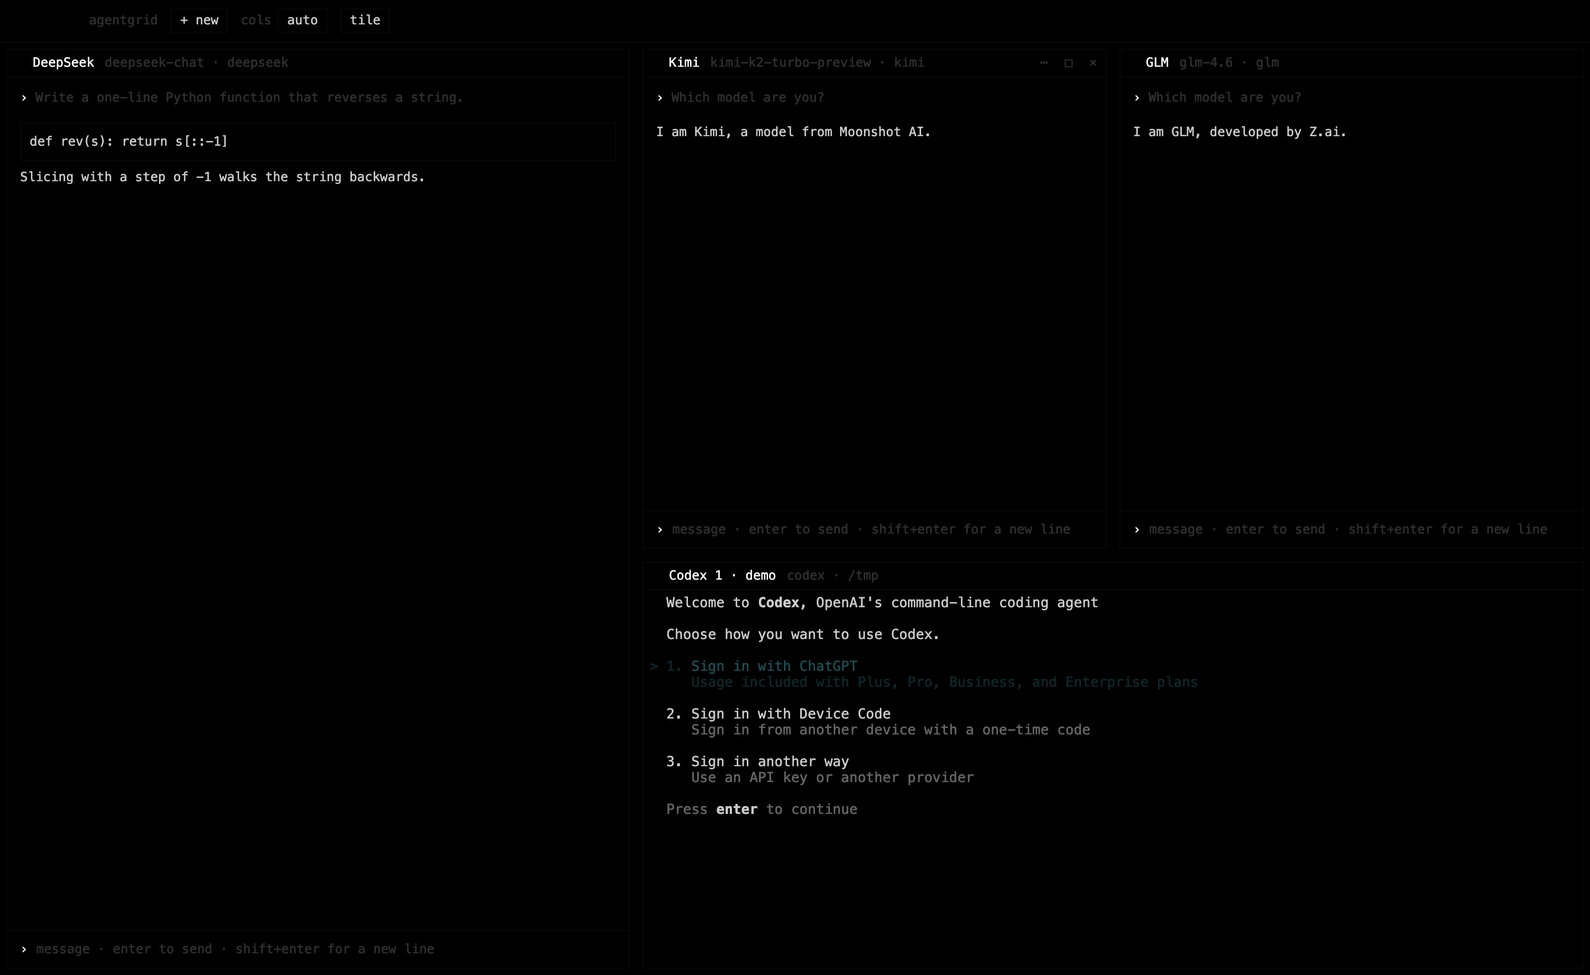
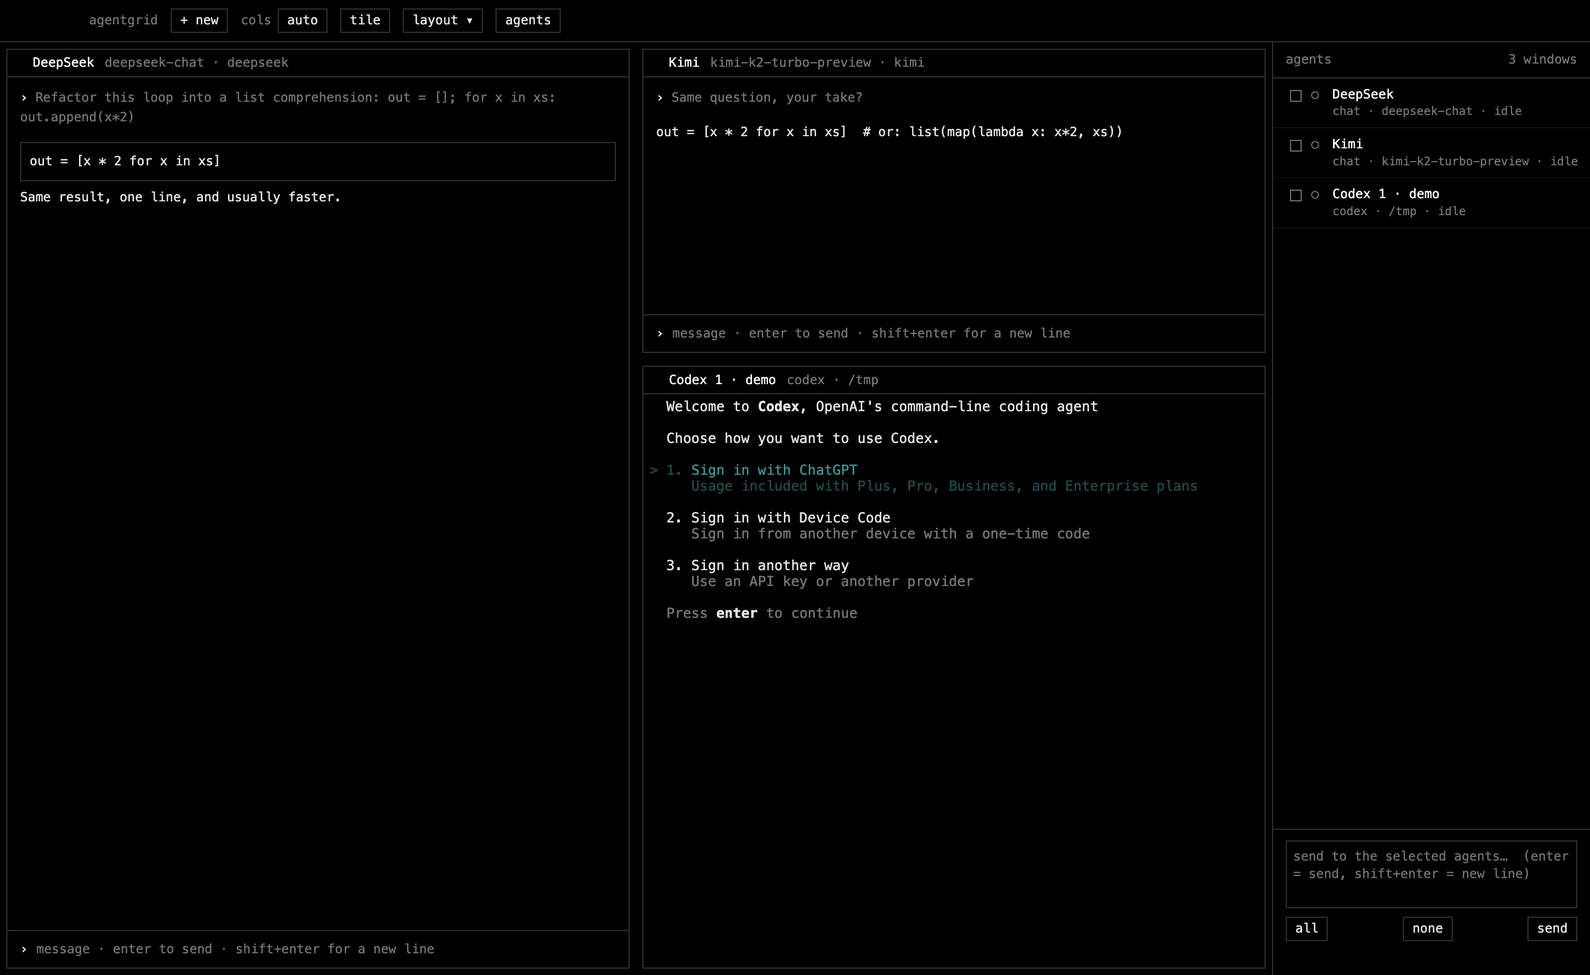
Terminal windows, layout presets, half-screen snap, agents overview and broadcast
- Plain shell windows next to the agents
- Layout menu: columns, rows, main window 50/66 % with the rest stacked
- Drag to the edge to snap a window to a half; others re-tile in the rest
- Agents dock: all windows with type, model and activity; send one prompt to
  the selected terminals/chats, forward a chat's last answer to the others

diff --git a/src/renderer/renderer.js b/src/renderer/renderer.js
@@ -7,7 +7,7 @@
   const uid = () => Math.random().toString(36).slice(2, 8);
   const isTerm = (t) => t.kind === 'term';
   const isChat = (t) => t.kind === 'chat';
-  const TOOL = { claude: 'claude code', codex: 'codex', opencode: 'opencode' };
+  const TOOL = { claude: 'claude code', codex: 'codex', opencode: 'opencode', shell: 'terminal' };
 
   // Older builds ran API providers through Claude Code. Convert those windows into plain chat windows (same stored key).
   S.tiles = S.tiles.map((t) => {
@@ -26,6 +26,8 @@
   const terms = {};
   const chatRef = {}; // id -> { log, ta }
   const chatBusy = {};
+  const lastData = {};   // id -> timestamp of last terminal output (activity indicator)
+  const sel = new Set(); // windows selected in the agents dock
   const save = () => api.save({ tiles: S.tiles.map((t) => (isChat(t) ? { ...t, msgs: (t.msgs || []).slice(-100) } : t)), cols: S.cols, auto: S.auto });
 
   // ---------- terminals ----------
@@ -120,7 +122,7 @@
     if (m._el) { paintMsg(m._el, m); const log = chatRef[id]?.log; if (log && log.scrollHeight - log.scrollTop - log.clientHeight < 80) log.scrollTop = log.scrollHeight; }
   });
   api.on('chat:done', ({ id }) => {
-    chatBusy[id] = false; setBusy(id, false);
+    chatBusy[id] = false; setBusy(id, false); renderDock();
     const m = lastMsg(id); if (m && m.role === 'assistant' && !m.content && !m.reasoning) { const t = S.tiles.find((x) => x.id === id); t.msgs.pop(); m._el?.remove(); }
     save();
   });
@@ -191,6 +193,7 @@
       if (isTerm(t)) mountTerm(t, body); else if (isChat(t)) { mountChat(t, body); el.querySelector('.ld').classList.toggle('on', !!chatBusy[t.id]); } else paintInfo(t.id);
     }
     chips();
+    renderDock();
     push();
   }
 
@@ -202,16 +205,24 @@
     const start = { ...t.box }, px = e.clientX, py = e.clientY;
     const others = visibleTiles().filter((x) => x.id !== t.id);
     const elOf = (o) => grid.querySelector(`.tile[data-id="${o.id}"]`);
-    let cur = { ...start }, target = null;
+    let cur = { ...start }, target = null, zone = null;
+    const hint = document.createElement('div'); hint.id = 'snaphint'; grid.appendChild(hint);
     handle.onpointermove = (ev) => {
       const x = Math.min(1 - start.w, Math.max(0, start.x + (ev.clientX - px) / W)), y = Math.min(1 - start.h, Math.max(0, start.y + (ev.clientY - py) / H));
       cur = { ...start, x, y }; place(el, cur);
       const fx = (ev.clientX - gr.left) / W, fy = (ev.clientY - gr.top) / H;
       const hit = others.find((o) => fx >= o.box.x && fx <= o.box.x + o.box.w && fy >= o.box.y && fy <= o.box.y + o.box.h) || null;
-      if (hit !== target) { if (target) elOf(target)?.classList.remove('target'); target = hit; if (target) elOf(target)?.classList.add('target'); }
+      // pointer at the border of the work area → snap to that half
+      const edge = 26;
+      const z = ev.clientX - gr.left < edge ? 'left' : gr.right - ev.clientX < edge ? 'right' : ev.clientY - gr.top < edge ? 'top' : gr.bottom - ev.clientY < edge ? 'bottom' : null;
+      zone = z;
+      if (z) { const r = ZONES[z]; hint.style.cssText = `display:block;left:${r.x * 100}%;top:${r.y * 100}%;width:${r.w * 100}%;height:${r.h * 100}%`; } else hint.style.display = 'none';
+      const th = z ? null : hit;
+      if (th !== target) { if (target) elOf(target)?.classList.remove('target'); target = th; if (target) elOf(target)?.classList.add('target'); }
     };
     handle.onpointerup = () => {
-      handle.onpointermove = handle.onpointerup = null; dragging = false;
+      handle.onpointermove = handle.onpointerup = null; dragging = false; hint.remove();
+      if (zone) { snapWindow(t, zone); return; }
       if (target) { const tb = target.box; target.box = { ...start }; t.box = { ...tb }; }
       else {
         const free = (b) => !others.some((o) => overlap(b, o.box));
@@ -261,6 +272,103 @@
     handle.onpointerup = () => { handle.onpointermove = handle.onpointerup = null; el.classList.remove('active'); dragging = false; S.auto = false; save(); push(); };
   }
 
+  // ---------- layout presets and half-screen snapping ----------
+  const ZONES = { left: { x: 0, y: 0, w: 0.5, h: 1 }, right: { x: 0.5, y: 0, w: 0.5, h: 1 }, top: { x: 0, y: 0, w: 1, h: 0.5 }, bottom: { x: 0, y: 0.5, w: 1, h: 0.5 } };
+  const COMPLEMENT = { left: ZONES.right, right: ZONES.left, top: ZONES.bottom, bottom: ZONES.top };
+  // lay `list` out inside `rect`; nc = number of columns (default ~square)
+  function tileIn(rect, list, nc) {
+    const n = list.length; if (!n) return;
+    nc = Math.min(nc || (n <= 2 ? n : Math.ceil(Math.sqrt(n))), n);
+    const nr = Math.ceil(n / nc);
+    list.forEach((t, i) => {
+      const r = Math.floor(i / nc), cnt = Math.min(nc, n - r * nc), c = i - r * nc;
+      t.box = { x: rect.x + (c / cnt) * rect.w, y: rect.y + (r / nr) * rect.h, w: rect.w / cnt, h: rect.h / nr };
+    });
+  }
+  function snapWindow(t, zone) {
+    const others = visibleTiles().filter((x) => x.id !== t.id);
+    t.box = { ...ZONES[zone] };
+    if (!others.length) t.box = { x: 0, y: 0, w: 1, h: 1 };
+    else { const vert = zone === 'left' || zone === 'right'; tileIn(COMPLEMENT[zone], others, vert ? (others.length > 4 ? 2 : 1) : (others.length > 4 ? Math.ceil(others.length / 2) : others.length)); }
+    S.auto = false; save(); render();
+  }
+  function applyLayout(kind) {
+    const vis = visibleTiles(); if (!vis.length) return;
+    const [main, ...rest] = vis, full = { x: 0, y: 0, w: 1, h: 1 };
+    const stack = (rect) => tileIn(rect, rest, rest.length > 4 ? 2 : 1);
+    if (kind === 'grid') { retile(); return; }
+    else if (kind === 'cols') tileIn(full, vis, vis.length);
+    else if (kind === 'rows') tileIn(full, vis, 1);
+    else if (!rest.length) main.box = { ...full };
+    else if (kind === 'main-left-50') { main.box = { x: 0, y: 0, w: 0.5, h: 1 }; stack({ x: 0.5, y: 0, w: 0.5, h: 1 }); }
+    else if (kind === 'main-left-66') { main.box = { x: 0, y: 0, w: 2 / 3, h: 1 }; stack({ x: 2 / 3, y: 0, w: 1 / 3, h: 1 }); }
+    else if (kind === 'main-right-50') { main.box = { x: 0.5, y: 0, w: 0.5, h: 1 }; stack({ x: 0, y: 0, w: 0.5, h: 1 }); }
+    else if (kind === 'main-top-50') { main.box = { x: 0, y: 0, w: 1, h: 0.5 }; tileIn({ x: 0, y: 0.5, w: 1, h: 0.5 }, rest, rest.length); }
+    S.auto = false; max = null; save(); render();
+  }
+  api.on('layout:apply', ({ kind }) => applyLayout(kind));
+
+  // ---------- agents dock: overview of every window + broadcast / orchestration ----------
+  const TYPE = (t) => (isChat(t) ? 'chat' : isTerm(t) ? TOOL[t.cmd] : 'website');
+  function statusOf(t) {
+    if (isChat(t)) return chatBusy[t.id] ? ['w', 'working'] : ['', 'idle'];
+    if (isTerm(t)) {
+      const rec = terms[t.id];
+      if (rec?.exited) return ['x', 'exited'];
+      if (!rec?.started) return ['', 'not started'];
+      return Date.now() - (lastData[t.id] || 0) < 2500 ? ['w', 'working'] : ['', 'idle'];
+    }
+    return info[t.id]?.loading ? ['w', 'loading'] : ['', 'open'];
+  }
+  function renderDock() {
+    const dock = $('#dock'); if (dock.hidden) return;
+    $('#dockcount').textContent = S.tiles.length + ' windows' + (sel.size ? ` · ${sel.size} selected` : '');
+    const list = $('#alist');
+    const html = S.tiles.map((t) => {
+      const [cls, label] = statusOf(t);
+      const sub = [TYPE(t), isChat(t) || (isTerm(t) && t.api) ? t.api.model : isTerm(t) ? t.cwd.split('/').slice(-2).join('/') : '', hidden.has(t.id) ? 'hidden' : '', label].filter(Boolean).join(' · ');
+      return `<div class="arow" data-id="${t.id}"><input type="checkbox" ${sel.has(t.id) ? 'checked' : ''}><span class="st ${cls}">${cls === 'x' ? '×' : cls === 'w' ? '●' : '○'}</span><div><div class="nm2">${esc(t.name)}</div><div class="sub">${esc(sub)}</div></div></div>`;
+    }).join('');
+    if (list.dataset.h !== html) { list.dataset.h = html; list.innerHTML = html || '<div class="arow"><span></span><span></span><div class="sub">no windows yet</div></div>'; }
+  }
+  $('#alist').addEventListener('click', (e) => {
+    const row = e.target.closest('.arow'); if (!row) return;
+    const id = row.dataset.id;
+    if (e.target.matches('input')) { e.target.checked ? sel.add(id) : sel.delete(id); renderDock(); return; }
+    if (hidden.has(id)) { hidden.delete(id); render(); }
+    const el = grid.querySelector(`.tile[data-id="${id}"]`); if (!el) return;
+    el.classList.add('flash'); setTimeout(() => el.classList.remove('flash'), 900);
+    const t = S.tiles.find((x) => x.id === id);
+    if (isTerm(t)) terms[id]?.term.focus(); else if (isChat(t)) chatRef[id]?.ta.focus();
+  });
+  // Send one prompt to many agents: bracketed paste + Enter into terminals, a normal message into chat windows.
+  function orchSend(text, ids) {
+    let sent = 0, skipped = 0;
+    for (const id of ids) {
+      const t = S.tiles.find((x) => x.id === id); if (!t) continue;
+      if (isTerm(t) && terms[id] && !terms[id].exited && terms[id].started) { api.pty.input({ id, data: '\x1b[200~' + text + '\x1b[201~' }); setTimeout(() => api.pty.input({ id, data: '\r' }), 120); sent++; }
+      else if (isChat(t) && !chatBusy[id]) { sendChat(t, text); sent++; }
+      else skipped++;
+    }
+    return { sent, skipped };
+  }
+  function orchestrate() {
+    const ta = $('#orch'), text = ta.value.trim(); if (!text) return;
+    const ids = [...sel]; if (!ids.length) { $('#onote').textContent = 'select agents first (checkboxes) or press "all"'; return; }
+    const r = orchSend(text, ids);
+    $('#onote').textContent = `sent to ${r.sent}` + (r.skipped ? ` · skipped ${r.skipped} (busy / exited / website)` : '');
+    ta.value = '';
+  }
+  $('#osend').onclick = orchestrate;
+  $('#orch').onkeydown = (e) => { if (e.key === 'Enter' && !e.shiftKey && !e.isComposing) { e.preventDefault(); orchestrate(); } };
+  $('#selall').onclick = () => { S.tiles.filter((t) => isTerm(t) || isChat(t)).forEach((t) => sel.add(t.id)); renderDock(); };
+  $('#selnone').onclick = () => { sel.clear(); renderDock(); };
+  const toggleDock = () => { const d = $('#dock'); d.hidden = !d.hidden; document.body.classList.toggle('dock', !d.hidden); S.dock = !d.hidden; save(); renderDock(); push(); };
+  $('#agentsbtn').onclick = toggleDock;
+  $('#layoutbtn').onclick = (e) => { const r = e.target.getBoundingClientRect(); api.layoutMenu({ x: r.left, y: r.bottom }); };
+  if (S.dock) { $('#dock').hidden = false; document.body.classList.add('dock'); }
+  setInterval(renderDock, 1000);
+
   // ---------- header / menu actions ----------
   function onHeaderClick(e, t) {
     const c = e.target.dataset.c; if (!c) return;
@@ -286,6 +394,13 @@
     else if (action === 'restart') restartPty(t);
     else if (action === 'cfg') editApi(t);
     else if (action === 'clear') { api.chat.stop({ id }); t.msgs = []; save(); render(); }
+    else if (action.startsWith('snap-')) snapWindow(t, action.slice(5));
+    else if (action === 'forward') {
+      const last = [...(t.msgs || [])].reverse().find((m) => m.role === 'assistant' && !m.error && m.content);
+      const ids = [...sel].filter((x) => x !== id);
+      if (!last) return; if (!ids.length) { $('#dock').hidden && toggleDock(); $('#onote').textContent = 'select the target agents first, then use "send last answer" again'; return; }
+      const r = orchSend(last.content, ids); $('#dock').hidden && toggleDock(); $('#onote').textContent = `forwarded to ${r.sent}` + (r.skipped ? ` · skipped ${r.skipped}` : '');
+    }
     else api.cmd({ id, cmd: action === 'ext' ? 'external' : action, url: t.url });
   });
 
@@ -415,7 +530,9 @@
     if (r && r.url) { const u = /^https?:\/\//.test(r.url) ? r.url : 'https://' + r.url; addWeb(r.name || new URL(u).hostname, u); }
   });
   api.on('tile:nav', (d) => { info[d.id] = d; paintInfo(d.id); });
-  api.on('pty:data', ({ id, data }) => terms[id]?.term.write(data));
+  api.on('pty:data', ({ id, data }) => { lastData[id] = Date.now(); terms[id]?.term.write(data); });
   api.on('pty:exit', ({ id }) => { const r = terms[id]; if (r) { r.exited = true; r.term.write('\r\n\x1b[90m[process exited - press any key to restart]\x1b[0m\r\n'); } });
   render();
+  renderDock();
+  if (api.debug) window.__ag = { applyLayout, snapWindow, orchSend, sel, S, terms, sendChat };
 })();

diff --git a/src/main.js b/src/main.js
@@ -159,7 +159,7 @@ ipcMain.on('pty:start', (_e, t) => {
     });
   }
   let dir = cwd; try { fs.accessSync(dir); } catch { dir = os.homedir(); }
-  const p = pty.spawn(process.env.SHELL || '/bin/zsh', ['-ilc', agentCommand(kind)], { name: 'xterm-256color', cols: cols || 100, rows: rows || 30, cwd: dir, env });
+  const p = pty.spawn(process.env.SHELL || '/bin/zsh', kind === 'shell' ? ['-il'] : ['-ilc', agentCommand(kind)], { name: 'xterm-256color', cols: cols || 100, rows: rows || 30, cwd: dir, env });
   ptys.set(id, p);
   p.onData((data) => { if (win) win.webContents.send('pty:data', { id, data }); });
   p.onExit(({ exitCode }) => { ptys.delete(id); if (win) win.webContents.send('pty:exit', { id, exitCode }); });
@@ -252,9 +252,13 @@ ipcMain.on('menu:tile', (e, { id, type }) => {
   const common = [
     { label: 'Rename', click: act('rename') },
     { label: 'Text larger', click: act('zin') }, { label: 'Text smaller', click: act('zout') },
+    { label: 'Snap', submenu: [
+      { label: 'Left half', click: act('snap-left') }, { label: 'Right half', click: act('snap-right') },
+      { label: 'Top half', click: act('snap-top') }, { label: 'Bottom half', click: act('snap-bottom') },
+    ] },
     { type: 'separator' }, { label: 'Hide window', click: act('hide') },
   ];
-  const own = type === 'chat' ? [{ label: 'New chat (clear)', click: act('clear') }, { label: 'Settings (model / key / url)…', click: act('cfg') }]
+  const own = type === 'chat' ? [{ label: 'Send last answer to selected agents', click: act('forward') }, { label: 'New chat (clear)', click: act('clear') }, { label: 'Settings (model / key / url)…', click: act('cfg') }]
     : type === 'agent' ? [{ label: 'Restart', click: act('restart') }, { label: 'Settings (model / key / url)…', click: act('cfg') }]
     : type === 'term' ? [{ label: 'Restart', click: act('restart') }]
     : [{ label: 'Back', click: act('back') }, { label: 'Reload', click: act('reload') }, { label: 'Home', click: act('home') }, { label: 'Open in browser', click: act('ext') }];
@@ -293,12 +297,33 @@ async function askAccount(e, kind) {
   e.sender.send('tile:addTerm', { kind, label, cwd: f.filePaths[0], fresh: r.response === 0, home: HOME_DIR });
 }
 
+async function askShell(e) {
+  const f = await dialog.showOpenDialog(win, { title: 'Start folder for the terminal', properties: ['openDirectory', 'createDirectory'], defaultPath: app.getPath('home') });
+  if (f.canceled || !f.filePaths[0]) return;
+  e.sender.send('tile:addTerm', { kind: 'shell', label: 'Terminal', cwd: f.filePaths[0], fresh: false, home: HOME_DIR });
+}
+
+ipcMain.on('menu:layout', (e, { x, y }) => {
+  const L = (kind) => () => e.sender.send('layout:apply', { kind });
+  Menu.buildFromTemplate([
+    { label: 'Grid (all equal)', click: L('grid') },
+    { label: 'Columns', click: L('cols') },
+    { label: 'Rows', click: L('rows') },
+    { type: 'separator' },
+    { label: 'Main window left 50% · others stacked right', click: L('main-left-50') },
+    { label: 'Main window left 66% · others stacked right', click: L('main-left-66') },
+    { label: 'Main window top 50% · others below', click: L('main-top-50') },
+    { label: 'Main window right 50% · others stacked left', click: L('main-right-50') },
+  ]).popup({ window: win, x: Math.round(x), y: Math.round(y) });
+});
+
 ipcMain.on('menu:add', (e, { x, y }) => {
   const withHome = (p) => ({ ...p, home: HOME_DIR });
   const tpl = [
     { label: 'Chat via API key', submenu: API_PRESETS.map((p) => ({ label: p.label, click: () => e.sender.send('tile:addChat', withHome(p)) })) },
     { label: 'Coding agent via API key (opencode)', submenu: API_PRESETS.filter((p) => p.id !== 'anthropic').map((p) => ({ label: p.label, click: () => e.sender.send('tile:addApi', withHome(p)) })) },
     { type: 'separator' },
+    { label: 'Terminal (plain shell)', click: () => askShell(e) },
     { label: 'Claude Code (subscription login)', click: () => askAccount(e, 'claude') },
     { label: 'Codex (ChatGPT login)', click: () => askAccount(e, 'codex') },
     { type: 'separator' },

diff --git a/src/renderer/style.css b/src/renderer/style.css
@@ -68,3 +68,23 @@ input:focus, select:focus { border-color:var(--hi); }
 .chat .pr { color:var(--hi); line-height:1.55; }
 .chat textarea { flex:1; resize:none; background:transparent; border:0; outline:0; color:var(--hi); font:inherit; line-height:1.55; padding:0; user-select:text; min-height:18px; }
 .chat textarea::placeholder { color:var(--dim); }
+
+/* agents dock (overview + broadcast) */
+body.dock #grid { right:300px; }
+#dock { position:absolute; top:40px; right:0; bottom:0; width:300px; border-left:1px solid var(--line); background:#000; display:flex; flex-direction:column; z-index:7; }
+#dockhead { display:flex; justify-content:space-between; padding:8px 12px; border-bottom:1px solid var(--line); color:var(--dim); }
+#alist { flex:1; overflow-y:auto; }
+.arow { display:grid; grid-template-columns:18px 14px 1fr; gap:6px; padding:7px 12px; border-bottom:1px solid #111; align-items:start; cursor:pointer; }
+.arow:hover { background:#0d0d0d; }
+.arow .st { color:var(--dim); } .arow .st.w { color:var(--hi); animation:b 1s steps(2) infinite; } .arow .st.x { color:#a33; }
+.arow .nm2 { color:var(--hi); white-space:nowrap; overflow:hidden; text-overflow:ellipsis; }
+.arow .sub { color:var(--dim); white-space:nowrap; overflow:hidden; text-overflow:ellipsis; font-size:11px; }
+.arow input[type=checkbox] { appearance:none; width:11px; height:11px; border:1px solid var(--dim); padding:0; margin-top:4px; cursor:pointer; }
+.arow input[type=checkbox]:checked { background:var(--hi); border-color:var(--hi); }
+#dockfoot { border-top:1px solid var(--line); padding:10px 12px; display:flex; flex-direction:column; gap:8px; }
+#orch { width:100%; resize:none; background:#000; color:var(--hi); border:1px solid var(--line); font:inherit; padding:6px; user-select:text; outline:0; }
+#orch:focus { border-color:var(--hi); }
+#dockfoot .row { justify-content:space-between; }
+#onote { color:var(--dim); min-height:14px; }
+#snaphint { position:absolute; z-index:15; border:1px dashed var(--hi); background:rgba(255,255,255,.06); pointer-events:none; display:none; }
+.tile.flash .in { border-color:var(--hi); box-shadow:inset 0 0 0 1px var(--hi); }

diff --git a/src/renderer/index.html b/src/renderer/index.html
@@ -10,10 +10,21 @@
   <button id="add">+ new</button>
   <label class="grp">cols <select id="cols"><option value="0">auto</option><option>1</option><option>2</option><option>3</option><option>4</option><option>5</option><option>6</option></select></label>
   <button id="tile" title="arrange all windows in a grid">tile</button>
+  <button id="layoutbtn" title="layout presets">layout ▾</button>
+  <button id="agentsbtn" title="overview of all agents + broadcast">agents</button>
   <span id="chips"></span>
   <button id="restoreAll" hidden>show all</button>
 </div>
 <div id="grid"></div>
+<aside id="dock" hidden>
+  <div id="dockhead"><span>agents</span><span id="dockcount"></span></div>
+  <div id="alist"></div>
+  <div id="dockfoot">
+    <textarea id="orch" rows="3" placeholder="send to the selected agents…  (enter = send, shift+enter = new line)" spellcheck="false"></textarea>
+    <div class="row"><button id="selall">all</button><button id="selnone">none</button><button id="osend">send</button></div>
+    <div id="onote"></div>
+  </div>
+</aside>
 <div id="empty" hidden><pre>no windows.
 
 each window is a real terminal or website

diff --git a/src/preload.js b/src/preload.js
@@ -5,6 +5,8 @@ contextBridge.exposeInMainWorld('grid', {
   save: (s) => ipcRenderer.send('state:save', s),
   sync: (p) => ipcRenderer.send('sync', p),
   cmd: (p) => ipcRenderer.send('tile:cmd', p),
+  layoutMenu: (p) => ipcRenderer.send('menu:layout', p),
+  debug: !!process.env.AGENTGRID_DEBUG,
   addMenu: (p) => ipcRenderer.send('menu:add', p),
   remove: (p) => ipcRenderer.invoke('tile:remove', p),
   setKey: (p) => ipcRenderer.send('key:set', p),

diff --git a/README.md b/README.md
@@ -8,7 +8,7 @@
 **Run many AI coding agents side by side — each with its own account.**
 Claude Code, Codex and chat windows for DeepSeek, Kimi, GLM, Qwen, Grok, OpenAI, Anthropic and local Ollama models in one minimal black-and-white tiling workspace for macOS. No logging out, no account switching, no extra VS Code windows.
 
-![AgentGrid with DeepSeek, Kimi and GLM chat windows next to a Codex window](docs/screenshot.png)
+![AgentGrid: DeepSeek and Kimi chat windows, a Codex window and the agents overview with broadcast](docs/screenshot.png)
 
 ## Why
 
@@ -26,6 +26,9 @@ AgentGrid gives every window its **own isolated login** and lets you drag them i
 - **Coding agents with any provider** — the same providers can also run as an [opencode](https://opencode.ai) agent that reads and edits files in your project folder.
 - **Chat websites as tiles too** — Claude, ChatGPT, Kimi, Qwen, DeepSeek, GLM, Gemini, Grok, Perplexity, Le Chat or any URL. Every site tile has its own persistent cookie jar, so the same site can be open with several accounts.
 - **Free-form windows** — drag a title bar to move a window and drop it on another one to swap places; drag any edge or corner to resize just that window. Windows snap to neighbours and borders and never overlap. One click re-tiles everything into a grid.
+- **Layouts and half-screen snapping** — the *layout* menu arranges windows as columns, rows, or a main window (50 % or 66 %) with the rest stacked beside it. Drag a window to the edge of the work area to snap it to that half; all other windows re-tile into the remaining half.
+- **Agents overview + orchestration** — the *agents* panel lists every window with its type, model and activity (working / idle / exited). Tick any agents and send one prompt to all of them at once (pasted into terminals, sent as a message to chat windows), or forward the last answer of one chat to the others. Handy for comparing models or fanning out a task.
+- **Plain terminal windows** — a normal login shell in any folder, next to your agents.
 - Maximize/hide per window, per-window text zoom, auto grid or fixed column count.
 - **Keys stay local** — API keys are encrypted with the macOS keychain (Electron `safeStorage`). No telemetry, no server.
 - Minimal by design: black, white, monospace.
@@ -34,6 +37,7 @@ AgentGrid gives every window its **own isolated login** and lets you drag them i
 
 | Window | What it is | Account / auth |
 |---|---|---|
+| Terminal | plain login shell in a folder | none |
 | Claude Code | the real `claude` CLI | Subscription login (separate config folder per window) |
 | Codex | the real `codex` CLI | ChatGPT login (separate `CODEX_HOME` per window) |
 | Chat · DeepSeek, Kimi, GLM, Qwen, Grok, OpenAI | native chat window, direct API calls | API key |
@@ -64,7 +68,8 @@ Requirements: macOS, Node 20+ (source builds). Claude Code must be installed for
 1. Click **+ new** and pick an agent.
 2. For Claude Code / Codex choose *New separate login* (own folder → own account) or *Existing login*, then pick the project folder.
 3. For *Chat via API key* enter name and key, then choose the model from the list. For *Coding agent via API key* you additionally pick the project folder.
-4. Drag a window's title bar to move it (drop it on another window to swap), its edges or corners to resize it. The **⋯** menu has rename, text size, settings. **tile** re-arranges everything into a grid.
+4. Open **agents** (top bar) to see all windows and broadcast a prompt to the ones you tick; **layout** gives presets such as *main window 50 % + others stacked*.
+5. Drag a window's title bar to move it (drop it on another window to swap), its edges or corners to resize it. The **⋯** menu has rename, text size, settings. **tile** re-arranges everything into a grid.
 
 ### Open it from VS Code
 
